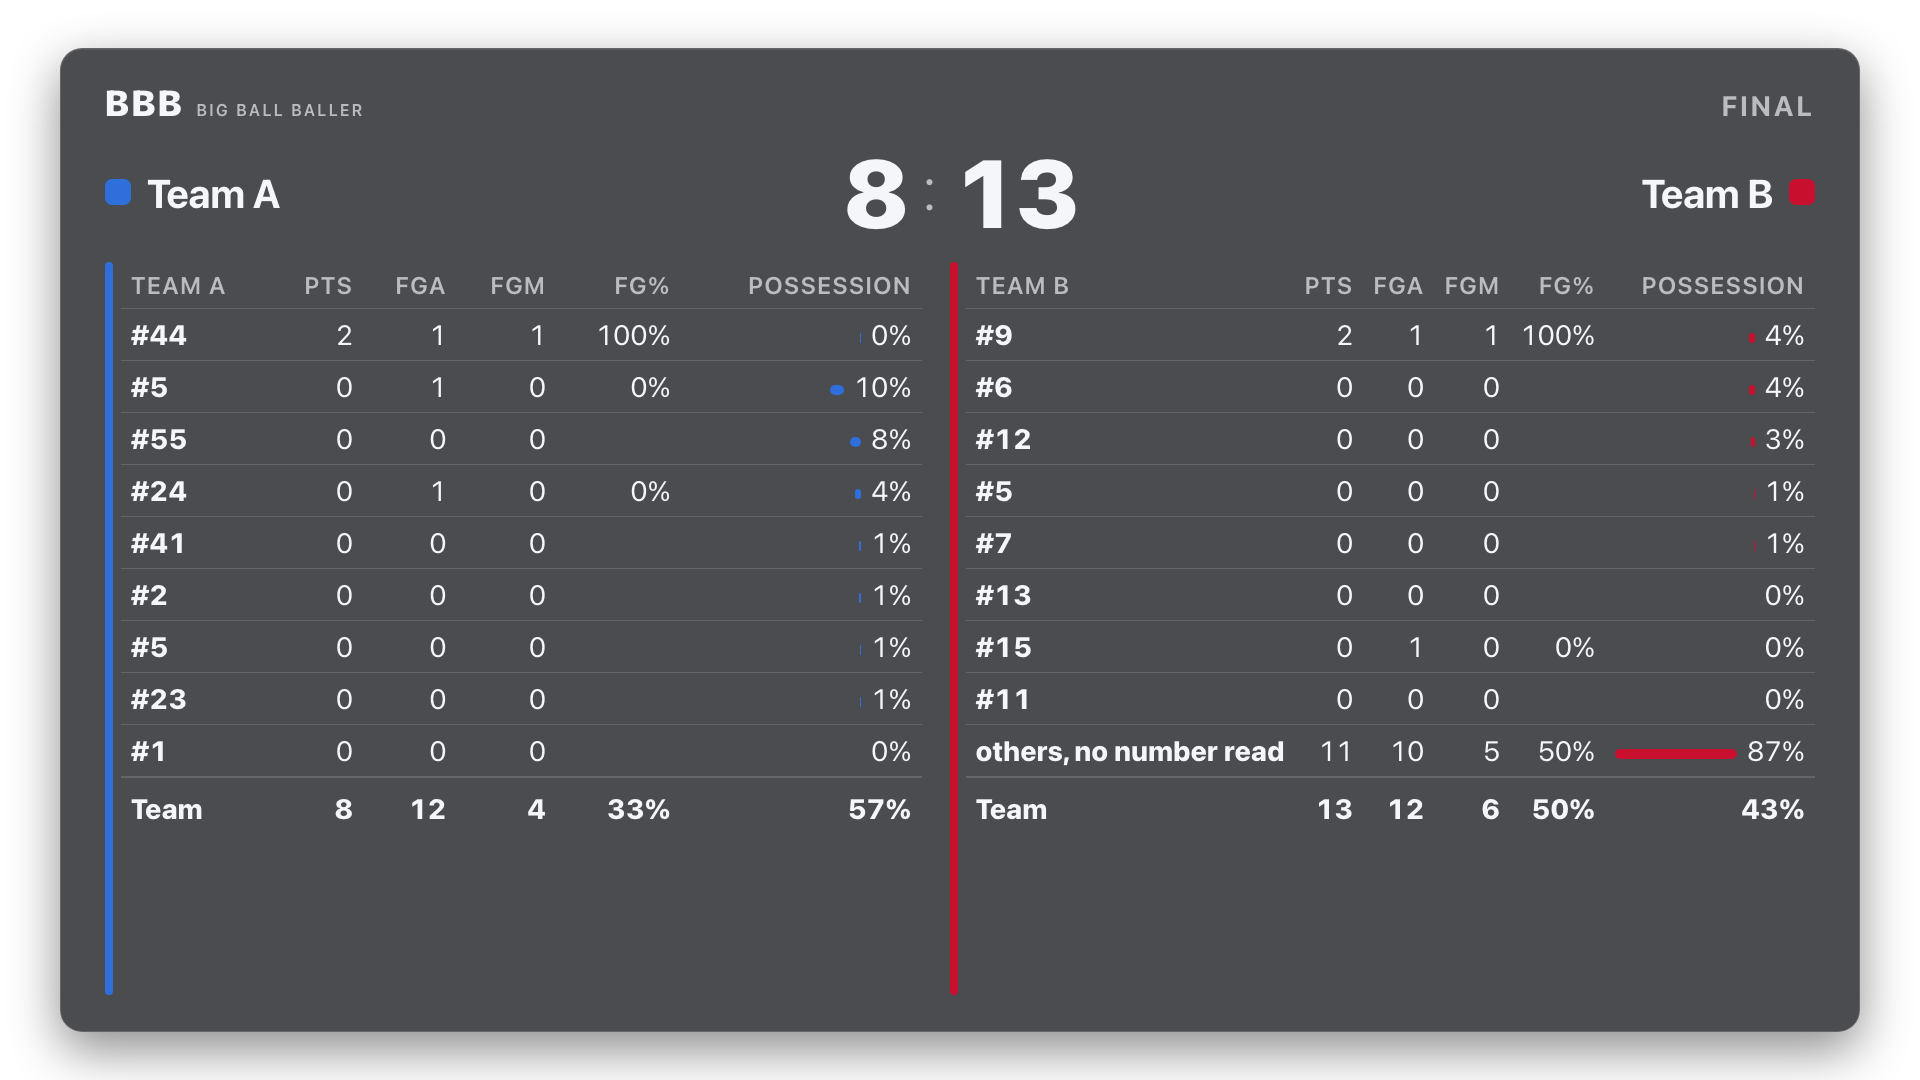
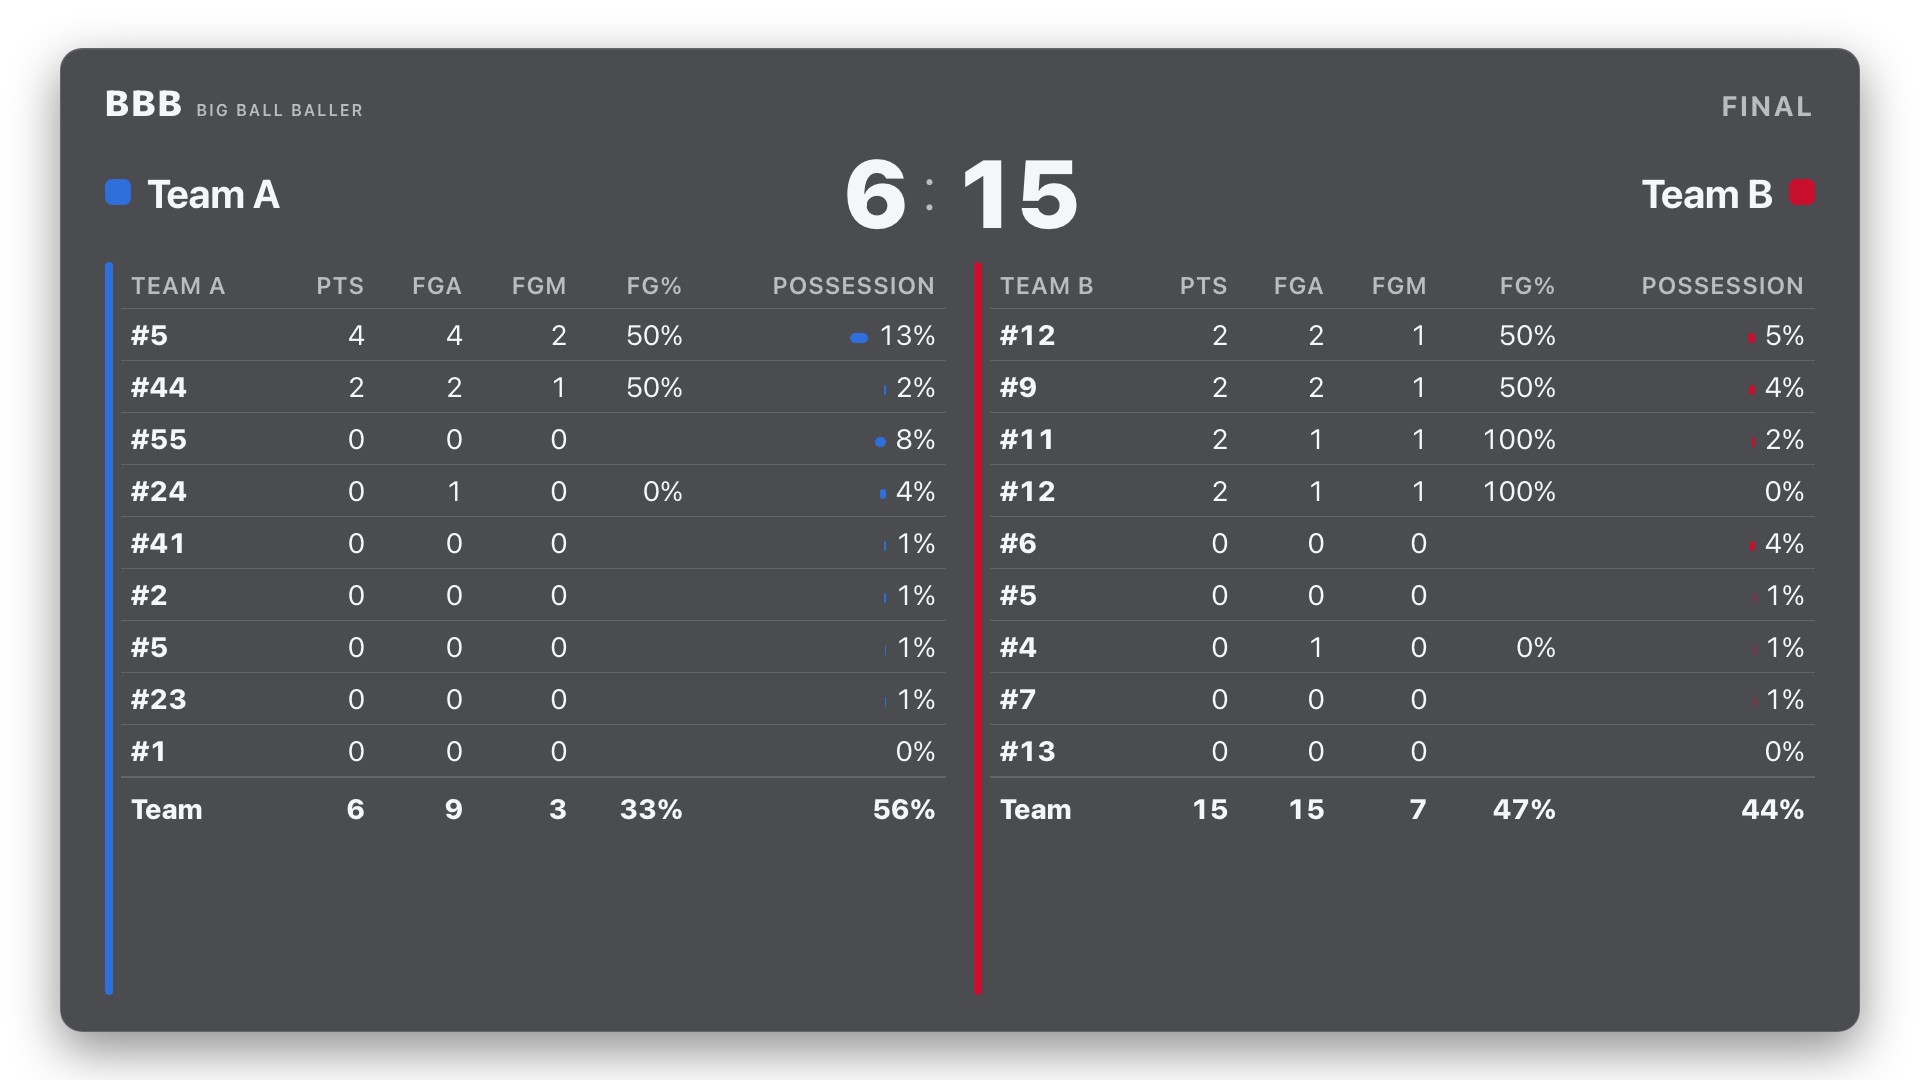
dashboard score from stats.json teams score, team overview label no longer clipped, static widgets from the frozen contract
Claude-Session: https://claude.ai/code/session_014wgHQacgR8inFjTJfC4Jz9

diff --git a/vision/dashboard/build.py b/vision/dashboard/build.py
@@ -239,8 +239,13 @@ def uncertain_ranges(cal: Calibration | None) -> list[tuple[int, int]]:
     return out
 
 
-def score(shots: list[dict]) -> dict[int, int]:
+def score(shots: list[dict], stats: dict | None = None) -> dict[int, int]:
+    """Team score: stats.json teams[].score when STATS writes it, else the per-shot
+    points from events.json (2 per made basket when a shot carries no points)."""
     out = {0: 0, 1: 0}
+    from_stats = {int(t["team"]): int(t["score"]) for t in (stats or {}).get("teams") or [] if t.get("score") is not None and int(t.get("team", -1)) in out}
+    if len(from_stats) == 2:
+        return from_stats
     for s in shots:
         if s["team"] in out:
             out[s["team"]] += s["points"]
@@ -525,7 +530,7 @@ JS = r"""
 
 def build(*, events, stats, cal, shots, players, teams, poss, cuts, duration_s, minimap, overlay, clip, calib_note,
           video_offset_s, source_meta) -> str:
-    sc = score(shots)
+    sc = score(shots, stats)
     has_events = bool(events)
     placed = sum(1 for s in shots if s.get("court_m"))
     has_distance = any(p["distance_m"] is not None for p in players)
